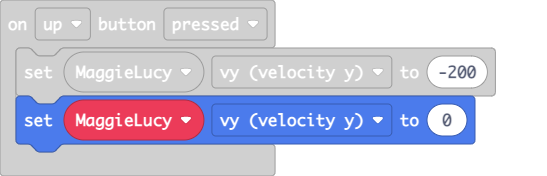
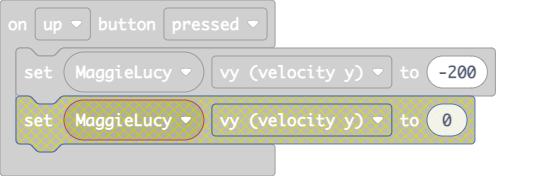
Update main.blocks, main.ts, tilemap.g.jres, tilemap.g.ts

Changed region(s): [[0.0311, 0.5398, 0.8702, 0.8807]]

diff --git a/tilemap.g.ts b/tilemap.g.ts
@@ -28,6 +28,8 @@ namespace myTiles {
     export const tile12 = image.ofBuffer(hex``);
     //% fixedInstance jres blockIdentity=images._tile
     export const tile13 = image.ofBuffer(hex``);
+    //% fixedInstance jres blockIdentity=images._tile
+    export const tile14 = image.ofBuffer(hex``);
 
     helpers._registerFactory("tilemap", function(name: string) {
         switch(helpers.stringTrim(name)) {
@@ -88,25 +90,6 @@ namespace myTiles {
 2 2 2 2 2 2 2 2 2 2 2 2 2 2 2 2 
 2 2 2 2 2 2 2 2 2 2 2 2 2 2 2 2 
 `, [myTiles.transparency16,sprites.castle.tileGrass2,myTiles.tile1], TileScale.Sixteen);
-            case "level1":
-            case "level1":return tiles.createTilemap(hex`320010000000000000000000000000000000000000000000000000000000000000000000000000000000000000000000000000000000000000000000000000000000000000000000000000000000000000000000000000000000000000000000000000000000000000000000000000000000000000000000000000000005050505050505000000000200000000000000000000000000000000000004000000000000000000000000000000000802020505050505050500000505050505050500000000050505050000000000000000000000000000000000000000050505050505050505050505050000050505050505050000000005050505000000030300000000000000000000000000000005050505050505050505050505000005050505050505020000000505050502000003030000000002000000000000000000000505050505050505050505050506060505050505050505050505050505050505050505050505050505050505000000000000050505050505050505050505050505050505050505050505050505050505050505050505050505050505050500000205050505050505050505050505050505050505050505050505050505050505050505050505050505050505050505050606050505050505050505050505050505050505050505050505050505050505050505050505050505050505050505050505050505050505050505050505050505050505050505050505050505050505050505050505050707070705050505050505050505050505050707070707070707070505050505050505050505050505050505050505050505070707070505050505050505050505050505070707070707070707070707070707070707050505050505050505050505050507070707050505050505050505050505050507070707070707070707070707070707070707070707070707070707070707070707070705050505050505050507070707070707070707070707070707070707070707070707070707070707070707070707070707070505050505050505050707070707070707020307070707070702030707070707070702030707070707070702030707070701`, img`
-..................................................
-..................................................
-.....................2222222......................
-.....................2222222..2222222....2222.....
-...............2222222222222..2222222....2222.....
-...............2222222222222..2222222....2222.....
-...............2222222222222..22222222222222222222
-222222222......2222222222222..22222222222222222222
-222222222...2222222222222222..22222222222222222222
-222222222..22222222222222222..22222222222222222222
-222222222..222222222222...........................
-222222222..222....................................
-222222222..222....................................
-222222222..222....................................
-222222222.........................................
-222222222.........................................
-`, [myTiles.transparency16,myTiles.tile1,myTiles.tile3,myTiles.tile4,myTiles.tile5,sprites.castle.tileGrass2,myTiles.tile8,myTiles.tile10,myTiles.tile6], TileScale.Sixteen);
             case "level5":
             case "level5":return tiles.createTilemap(hex`1000100000000000000000000000000000000000000000000000000000000000000000000000000000000000000000000000000000000000000000000000000000000000000000000000000000000000000000000000000000000000000000000000000000000000000000000000000000000000000000000000000000000000000000000000000000000000000000000000000000000000000000000000000000000000000000000000000000000000000000000000000000000000000000000000000000000000000000000000000000000000000000000000000000000000000000000000000000000000000000000000000000000000000000000000000000000000`, img`
 . . . . . . . . . . . . . . . . 
@@ -126,27 +109,27 @@ namespace myTiles {
 . . . . . . . . . . . . . . . . 
 . . . . . . . . . . . . . . . . 
 `, [myTiles.transparency16,myTiles.tile12,myTiles.tile13], TileScale.Sixteen);
-            case "level2":
[1 lines of base64/hex data omitted]
+            case "level1":
[1 lines of base64/hex data omitted]
 ..................................................
 ..................................................
-..................................................
-..............................222.................
-..................................................
-........................222............2..........
-................22222.............................
-........2...22..22222..............2........2.....
-2222..2.........22222.............................
-2222..........................................2...
-2222..............................................
-..................................................
-..................................................
-..................................................
-..................................................
-..................................................
-`, [myTiles.transparency16,sprites.builtin.oceanSand2,sprites.builtin.oceanSand14,sprites.builtin.oceanSand10,myTiles.tile1,myTiles.tile4,myTiles.tile5,myTiles.tile6,sprites.builtin.oceanSand8,sprites.builtin.oceanSand3,sprites.builtin.oceanSand0,sprites.builtin.oceanSand1,sprites.builtin.oceanSand15,sprites.builtin.oceanSand13,sprites.builtin.coral1,sprites.builtin.coral3], TileScale.Sixteen);
+.....................2222222......................
+.....................2222222..2222222....2222.....
+...............2222222222222..2222222...22222.....
+...............2222222222222..2222222...22222.....
+..............22222222222222..22222222222222222222
+222222222.....22222222222222..22222222222222222222
+222222222...2222222222222222..22222222222222222222
+222222222..22222222222222222..22222222222222222222
+222222222..222222222222...........................
+222222222..222....................................
+222222222..222....................................
+222222222..222....................................
+222222222.........................................
+222222222.........................................
+`, [myTiles.transparency16,myTiles.tile1,myTiles.tile3,myTiles.tile4,myTiles.tile5,sprites.castle.tileGrass2,myTiles.tile8,myTiles.tile10,myTiles.tile6,sprites.castle.tilePath1,sprites.castle.tilePath4,sprites.castle.tilePath7,sprites.castle.tilePath8,sprites.castle.tilePath9,sprites.castle.tilePath2,sprites.castle.tilePath3,sprites.castle.tilePath6,sprites.castle.tilePath5,sprites.builtin.forestTiles0], TileScale.Sixteen);
             case "level3":
[2 lines of base64/hex data omitted]
 ....222...........................................
 ....222...........................................
 22..222...........................................
@@ -163,7 +146,26 @@ namespace myTiles {
 22..2222222222....................................
 22..2222222222....................................
 222.......2222....................................
-`, [myTiles.transparency16,myTiles.tile1,myTiles.tile3,myTiles.tile4,myTiles.tile5,myTiles.tile6,sprites.dungeon.darkGroundCenter,sprites.dungeon.darkGroundNorthWest0,sprites.dungeon.darkGroundSouthWest0,sprites.dungeon.darkGroundNorth,sprites.dungeon.darkGroundNorthEast0,sprites.dungeon.darkGroundSouth,sprites.dungeon.darkGroundSouthEast0,sprites.dungeon.collectibleRedCrystal,sprites.dungeon.collectibleBlueCrystal,sprites.dungeon.collectibleInsignia], TileScale.Sixteen);
+`, [myTiles.transparency16,myTiles.tile1,myTiles.tile3,myTiles.tile4,myTiles.tile5,myTiles.tile6,sprites.dungeon.darkGroundCenter,sprites.dungeon.darkGroundNorthWest0,sprites.dungeon.darkGroundSouthWest0,sprites.dungeon.darkGroundNorth,sprites.dungeon.darkGroundNorthEast0,sprites.dungeon.darkGroundSouth,sprites.dungeon.darkGroundSouthEast0,sprites.dungeon.collectibleRedCrystal,sprites.dungeon.collectibleBlueCrystal,sprites.dungeon.collectibleInsignia,sprites.dungeon.darkGroundWest,sprites.dungeon.darkGroundEast], TileScale.Sixteen);
+            case "level2":
[1 lines of base64/hex data omitted]
+..................................................
+..................................................
+..................................................
+..............................222.................
+..................................................
+........................222............2..........
+................22222.............................
+........2...22..22222..............2........2.....
+2222..2.........22222.............................
+2222..........................................2...
+2222..............................................
+..................................................
+..................................................
+..................................................
+..................................................
+..................................................
+`, [myTiles.transparency16,sprites.builtin.oceanSand2,sprites.builtin.oceanSand14,sprites.builtin.oceanSand10,myTiles.tile1,myTiles.tile4,myTiles.tile5,myTiles.tile6,sprites.builtin.oceanSand8,sprites.builtin.oceanSand3,sprites.builtin.oceanSand0,sprites.builtin.oceanSand1,sprites.builtin.oceanSand15,sprites.builtin.oceanSand13,sprites.builtin.coral1,sprites.builtin.coral3,sprites.builtin.coral0], TileScale.Sixteen);
         }
         return null;
     })
@@ -197,6 +199,8 @@ namespace myTiles {
             case "tile12":return tile12;
             case "myTile11":
             case "tile13":return tile13;
+            case "myTile12":
+            case "tile14":return tile14;
         }
         return null;
     })

diff --git a/main.ts b/main.ts
@@ -1,9 +1,11 @@
+namespace SpriteKind {
+    export const Currency = SpriteKind.create()
+}
 scene.onOverlapTile(SpriteKind.Player, assets.tile`myTile1`, function (sprite, location) {
     info.changeLifeBy(-1)
 })
 controller.up.onEvent(ControllerButtonEvent.Pressed, function () {
     MaggieLucy.vy = -200
-    MaggieLucy.vy = 0
 })
 scene.onOverlapTile(SpriteKind.Player, assets.tile`myTile`, function (sprite, location) {
     startNextLevel()
